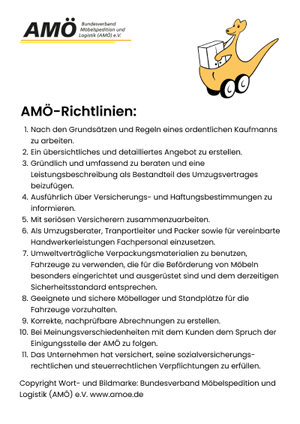
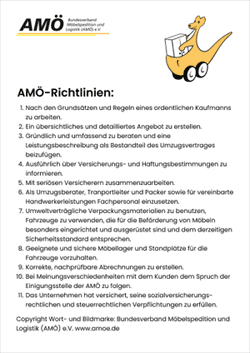
shrinks illustrations for quality section, improves about us page

diff --git a/pages/unternehmen.html b/pages/unternehmen.html
@@ -7,7 +7,7 @@ permalink: unternehmen/
 <section id="vision">
   <div class="bg-white py-5">
     <div class="container pt-5">
-      <h2 class="text-center fw-semibold">Unsere Familienunternehmensphilosophie</h2>
+      <h2 class="text-center fw-semibold">Unsere Familien<span class="d-md-none">-<br></span>unternehmensphilosophie</h2>
       
       {% include separator.html %}
 
@@ -37,12 +37,12 @@ permalink: unternehmen/
     <div class="container pb-5">
       <div class="row">
         <div class="col-6 offset-0 col-md-5 offset-md-1 bio-text">
-          <h2 style="color: #A08F67">Sayed Hossaini</h2>
+          <h2>Sayed Hossaini</h2>
           <p> ist <strong>Team- und Umzugsleiter</strong> von HM-Easyumzug. Herr Hossaini ist verantwortlich für das operative Tagesgeschäft und die Umzugsdurchführung, insbesondere für <strong>Logistik und Organisation</strong>.</p>
           <p class="mb-0">Davor war er über 25 Jahre in unterschiedlichen Positionen in der Automobil- und Logistikbranche tätig, sowohl national als auch international.</p>
         </div>
         <div class="col-6 offset-0 col-md-5 offset-md-1 bio-text">
-          <h2 style="color: #A08F67">Maryam Hemati</h2>
+          <h2>Maryam Hemati</h2>
           <p>geb. Hossaini, ist <strong>Geschäftsführerin</strong> von HM-Easyumzug. Frau Hemati ist für die Unternehmenslenkung und Geschäftsentwicklung im Privat- und Firmenkundenbereich zuständig, insbesondere für <strong>Umzugsmanagement und Consulting</strong>.</p>
           <p class="mb-0">Sie verfügt über einen Bachelor of Science in Mathematik und mehrjährige Arbeitserfahrung als Financial Engineer bei einem Frankfurter Bewertungsdienstleister.
           </p>
@@ -52,21 +52,15 @@ permalink: unternehmen/
   </div>
 </section>
 
-<section class="gallery">
- <div class="bg-black py-6">
 
-  {% include gallery.html %}
-
-</div>
-</section>
 
 <section class="random-fact">
- <div class="bg-white py-6">
+ <div class="bg-light-grey py-6">
 
   <div class="container">
     <div class="row">
-      <div class="col-12 col-md-8 offset-md-4">
-        <h4>Wie viele Deutsche ziehen jährlich um?</h4>
+      <div class="col-12 col-md-8 offset-md-2">
+        <h2>Wussten Sie, wie viele Deutsche jährlich umziehen?</h2>
         <p>Etwa 9,39 Millionen Deutsche ziehen jährlich um. Das sind gut 25.000 pro Tag. Knapp 3% der Deutschen tun sich den Umzugsstress sogar mehr als 1 Mal pro Jahr an.</p>
       </div>
     </div>
@@ -97,26 +91,30 @@ permalink: unternehmen/
         {% include separator.html %}
       </div>
       <div class="col-12 col-md-4 offset-md-1 text-end bg-dark-dark-blue-1 py-5 pe-5 pe-md-0">
-        <div class="display-0 fw-medium">300+</div>
-        <div class="h5 fw-medium mt-2">Privat- und Firmenumzüge</div>
-        <div class="display-3 fw-medium mt-5">5/5 Sterne</div>
-        <div class="h5 fw-medium mt-2">Bewertung</div>
-        <div class="display-0 fw-medium mt-5">100+</div>
-        <div class="h5 fw-medium mt-2">&#13221; Ladevolumen</div>
-        <div class="display-3 fw-medium mt-5">ONE</div>
-        <div class="h5 fw-medium mt-2">Office</div>
+        <div class="display-0 fw-medium mb-2">300+</div>
+        <div class="h5 fw-medium mb-6">Privat- und Firmenumzüge</div>
+        <div class="display-4 fw-medium mb-2">5/5 Sterne</div>
+        <div class="h5 fw-medium mb-6">Bewertung</div>
+        <div class="display-0 fw-medium mb-2">100+</div>
+        <div class="h5 fw-medium mb-6">&#13221; Ladevolumen</div>
+        <div class="display-4 fw-medium mb-2">ONE</div>
+        <div class="h5 fw-medium">Office</div>
       </div>
       <div class="col-12 col-md-4 offset-md-2 text-start bg-dark-dark-blue-2 py-5 ps-5 ps-md-0">
-        <h5 class="mb-0">Europaweit</h5>
-        <p class="h5 fw-normal text-primary mb-4">Umzüge in ganz Europa, z.B. Umzüge nach Dänemark, Schweiz, Frankreich, Belgien, etc.</p>
-        <h5 class="mb-0">Fuhrpark</h5>
-        <p class="h5 fw-normal text-primary mb-4">3,5 - 7,5t LKWs, 100+ &#13221; Ladevolumen</p>
-        <h5 class="mb-0">Umwelt</h5>
-        <p class="h5 fw-normal text-primary mb-4">LKWs mit Umweltplaketten Euro6, Umweltfreundliches Umzugsmaterial</p>
-        <h5 class="mb-0">Storage</h5>
-        <p class="h5 fw-normal text-primary mb-4">400 &#13217; Lagerfläche, Lagerboxen (ca. 3,5   &#13217; und ca. 7,7 &#13217;) 16 - 20 Fuß Container (ca. 11 &#13217; und ca. 26 - 30,5 &#13221;), Premium Räume (ca. 10 &#13217; und ca. 30,5 &#13221;)</p>
-        <h5 class="mb-0">Office</h5>
-        <p class="h5 fw-normal text-primary">Modernster Wolkenkratzer im Herzen Frankfurts: Tower ONE, Besuchen Sie uns in der Business-Lounge im 15. Stockwerk</p>
+        <h4 class="mb-0">Europaweit</h4>
+        <p class="h5 fw-normal mb-5">Umzüge in ganz Europa, z.B. Umzüge nach Dänemark, Schweiz, Frankreich, Belgien, etc.</p>
+        <h4 class="mb-0">Fuhrpark</h4>
+        <p class="h5 fw-normal mb-5">3,5 - 7,5t LKWs, 100+ &#13221; Ladevolumen</p>
+        <h4 class="mb-0">Umwelt</h4>
+        <p class="h5 fw-normal mb-5">LKWs mit Umweltplaketten Euro 6, Umweltfreundliches Umzugsmaterial</p>
+        <h4 class="mb-0">Storage</h4>
+        <p class="h5 fw-normal mb-5">400 &#13217; Lagerfläche,<br>
+          Lagerboxen (ca. 3,5   &#13217; &amp; 7,7 &#13217;),<br>
+          Container (ca. 11 &#13217; &amp; 26 - 30,5 &#13221;),<br>
+          Premium Räume (ca. 10 &#13217; &amp; ca. 30,5 &#13221;)
+        </p>
+        <h4 class="mb-0">Office</h4>
+        <p class="h5 fw-normal">Modernster Wolkenkratzer im Herzen Frankfurts: Tower ONE,<br>Besuchen Sie uns in der Business-Lounge im 15. Stockwerk</p>
       </div>
     </div>
   </div>
@@ -128,11 +126,18 @@ permalink: unternehmen/
  <div class="bg-white py-6">
 
   <div class="container">
-    <div class="row">
-      <div class="col-12 col-md-10 offset-md-1">
-        <h1 class="fw-medium mb-3">
-          HM-Easyumzug arbeitet gemäß den Richtlinien des Bundesverband Möbelspedition und Logistik (AMÖ) e.V., das heisstÖ
-        </h1>
+    <h2 class="text-center fw-semibold">Qualität</h2>
+
+    {% include separator.html %}
+
+    <div class="row gx-5">
+      <div class="col-12 col-md-10 offset-md-1 fw-medium h1 mb-5 text-center">
+        Die Richtlinien des Bundesverbands Möbelspedition und Logistik (AMÖ) e.V. 
+      </div>
+      <div class="col-4 col-md-4">
+        <img class="d-block w-100 shadow" src="/assets/pics/quality-amoe-guidelines.png">
+      </div>  
+      <div class="col-12 col-md-8">
         <ol>
           <li>Nach den Grundsätzen und Regeln eines ordentlichen Kaufmanns zu arbeiten.</li>
           <li>Ein übersichtliches und detailliertes Angebot zu erstellen.</li>
@@ -150,4 +155,20 @@ permalink: unternehmen/
     </div>
   </div>
 
+</section>
+
+<!-- Gallery -->
+
+<section class="gallery">
+ <div class="bg-black py-6">
+
+  {% include gallery.html %}
+
+  <div class="container-lg text-white mt-3">
+
+    Folgen Sie uns auf Instagram <i class="fa-brands fa-instagram"></i> <a href="https://www.instagram.com/hmeasyumzug/?hl=af">@hmeasyumzug</a>
+
+  </div>
+
+</div>
 </section>
